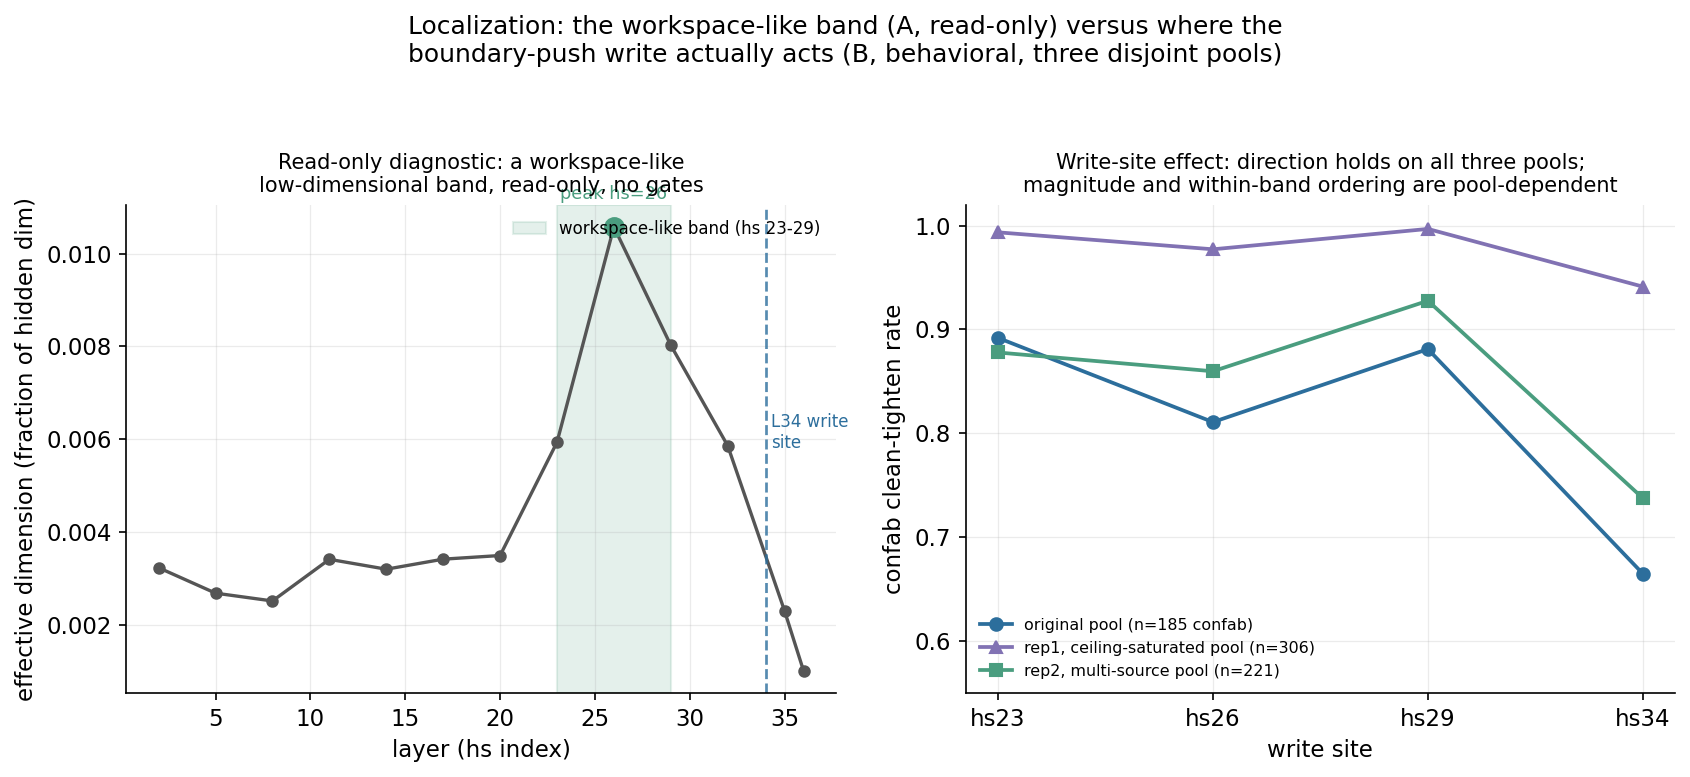
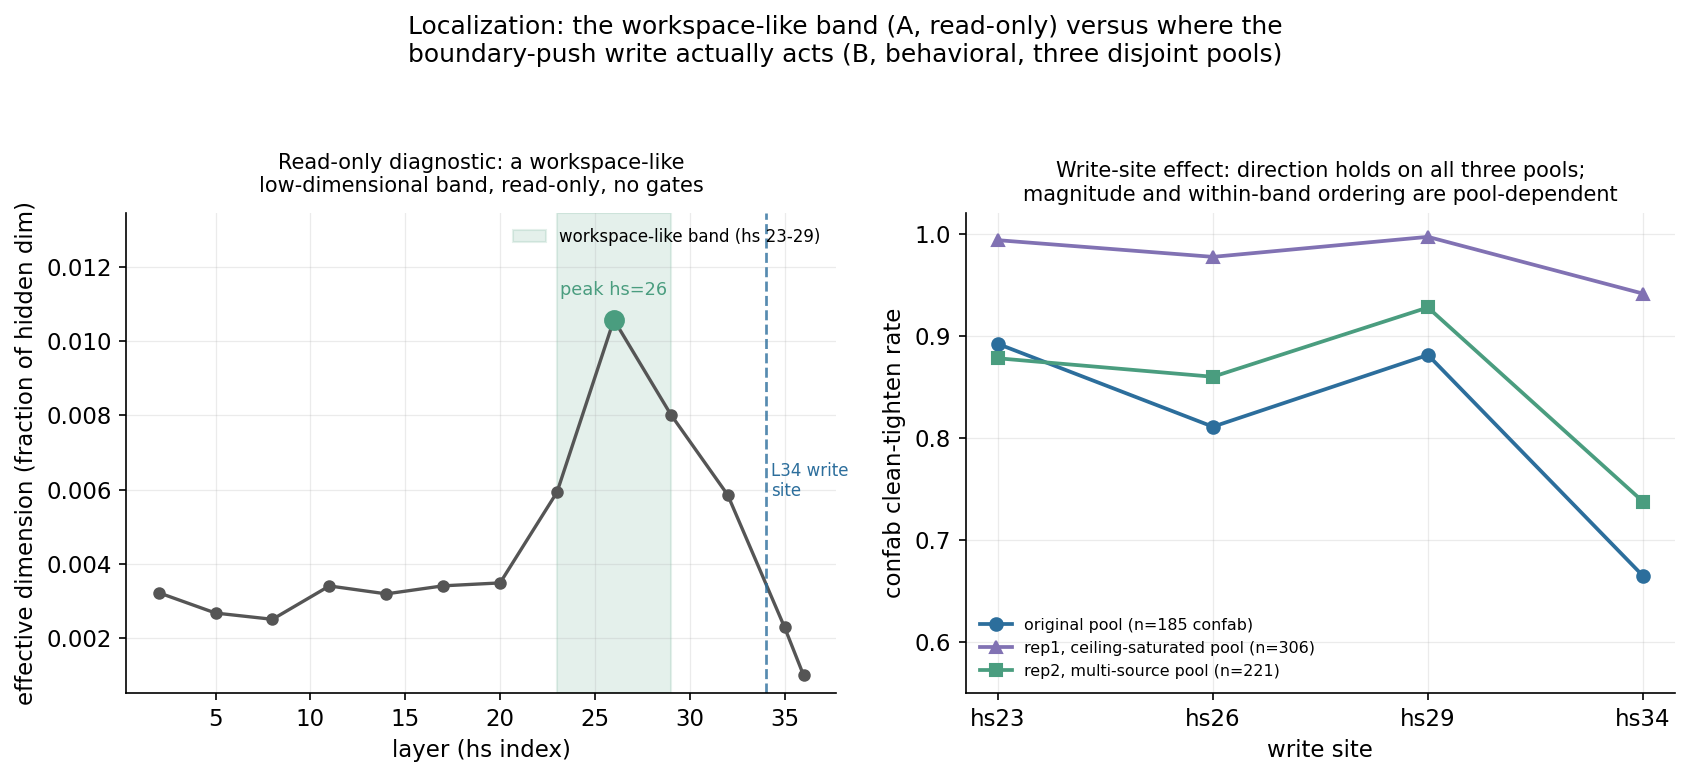
paper 5: fix Figure 5 panel A annotation overlapping the title
The peak annotation sat above the topmost data point at the very top of
the y-range and spilled into the axes title. Adds span-scaled headroom
so the annotation and legend fit inside the axes, pads the title.

Claude-Session: https://claude.ai/code/session_012M6wLjiA3PHuTRN3V72TWD

diff --git a/papers/paper-5-actuation/scripts/build_figures.py b/papers/paper-5-actuation/scripts/build_figures.py
@@ -308,12 +308,16 @@ def fig5_localization():
     axA.axvspan(23, 29, color=C_MID, alpha=0.15, label="workspace-like band (hs 23-29)")
     peak_l = layers[int(np.argmax(eff_dim))]
     axA.plot([peak_l], [max(eff_dim)], "o", color=C_MID, ms=9, zorder=5)
-    axA.text(peak_l, max(eff_dim) + 0.0006, f"peak hs={peak_l}", ha="center", fontsize=8.5, color=C_MID)
+    # headroom scaled to the data span so the peak annotation and legend fit
+    # inside the axes instead of spilling into the title
+    span = max(eff_dim) - min(eff_dim)
+    axA.set_ylim(top=max(eff_dim) + span * 0.30)
+    axA.text(peak_l, max(eff_dim) + span * 0.07, f"peak hs={peak_l}", ha="center", fontsize=8.5, color=C_MID)
     axA.axvline(34, color=C_LATE, ls="--", lw=1.3, alpha=0.8)
     axA.text(34.3, max(eff_dim) * 0.55, "L34 write\nsite", fontsize=8, color=C_LATE)
     axA.set_xlabel("layer (hs index)")
     axA.set_ylabel("effective dimension (fraction of hidden dim)")
-    axA.set_title("Read-only diagnostic: a workspace-like\nlow-dimensional band, read-only, no gates", fontsize=10)
+    axA.set_title("Read-only diagnostic: a workspace-like\nlow-dimensional band, read-only, no gates", fontsize=10, pad=10)
     axA.legend(frameon=False, fontsize=8, loc="upper right")
 
     # B: write-site behavioral localization across 3 disjoint pools
